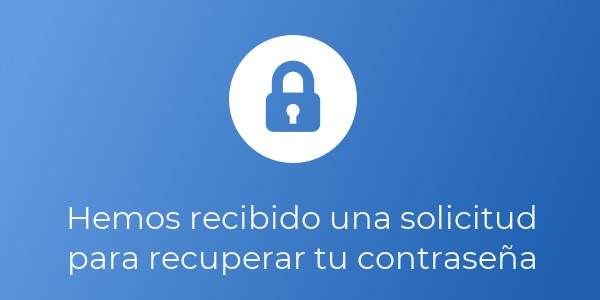
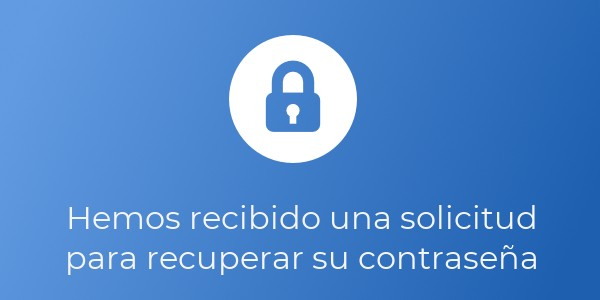
Add new role email notification templates
- Creating new image banner for new role notification.
- Adding necessary html, txt and subject files to template directory
to send new role notification emails.
- Changing the image for password reset banner to a more formal language.
- Adding new disclaimer for no response on the email base template and
txt versions of emails.
- Testing the new email template with the email_test view.

Changed region(s): [[0.09, 0.81, 0.9, 0.93]]

diff --git a/teg_asovac_src/templates/email_base_template.html b/teg_asovac_src/templates/email_base_template.html
@@ -31,7 +31,17 @@
                                     <tr>
                                         <td style="padding: 10px 0 10px 0; font-family: Avenir, sans-serif; font-size: 16px;">
                                             <!-- Email text goes here-->
-                                            <p>Atentamente.<br />Sistema ASOVAC</p>
+                                            <p>
+                                                Atentamente.<br />
+                                                Sistema ASOVAC
+                                            </p>
+                                        </td>
+                                    </tr>
+                                    <tr>
+                                        <td style="padding: 10px 0 0 0; font-family: Avenir, sans-serif; font-size: 12px;">
+                                            <p style="text-align: center;">
+                                                Este es un correo electrónico autogenerado por el sistema ASOVAC, por favor no responder a estos mensajes.
+                                            </p>
                                         </td>
                                     </tr>
                                 </table>

diff --git a/teg_asovac_src/templates/new_role_email.html b/teg_asovac_src/templates/new_role_email.html
@@ -1,0 +1,29 @@
+{% extends "email_base_template.html" %}
+{% load static %}
+
+{% block title %}
+Sistema ASOVAC: Asignación de Nuevo Rol
+{% endblock %}
+
+{% block banner %}
+<img src="{% static 'img/email_banner_new_role.jpg' %}" alt="Se ha recibido una solicitud para recuperar tu contraseña" style="display: block;border:0;" height="100%" width="600"/>
+{% endblock %}
+
+{% block content %}
+<tr>
+    <td style="padding: 10px 0 10px 0; font-family: Avenir, sans-serif; font-size: 16px;">
+        <!-- Email text goes here-->
+        <p style="text-align: justify;">
+            Mediante el presente mensaje se le notifica a usted que un Administrador del Sistema ASOVAC le ha asignado un nuevo rol en el mismo.
+        </p>
+    </td>
+</tr>
+<tr>
+    <td style="padding: 10px 0 10px 0; font-family: Avenir, sans-serif; font-size: 16px;">
+        <!-- Email text goes here-->
+        <p style="text-align: justify;">
+            Su nuevo rol asignado es: <strong>{{ new_role }}</strong>
+        </p>
+    </td>
+</tr>
+{% endblock %}

diff --git a/teg_asovac_src/templates/new_role_email_txt.html b/teg_asovac_src/templates/new_role_email_txt.html
@@ -1,0 +1,8 @@
+Mediante el presente mensaje se le notifica a usted que un Administrador del Sistema ASOVAC le ha asignado un nuevo rol en el mismo.
+
+Su nuevo rol asignado es: {{ new_role }}
+
+Atentamente
+Sistema ASOVAC
+
+Este es un correo electrónico autogenerado por el sistema ASOVAC, por favor no responder a estos mensajes.

diff --git a/teg_asovac_src/templates/password_reset_email_txt.html b/teg_asovac_src/templates/password_reset_email_txt.html
@@ -7,3 +7,5 @@ Para establecer una nueva contraseña, por favor haga click en el siguiente enla
 
 Atentamente
 Sistema ASOVAC
+
+Este es un correo electrónico autogenerado por el sistema ASOVAC, por favor no responder a estos mensajes.

diff --git a/teg_asovac_src/main_app/views.py b/teg_asovac_src/main_app/views.py
@@ -41,8 +41,9 @@ def email_test(request):
     context = {
         'nombre_vista' : 'Email-Test',
         'username' : 'Rabindranath Ferreira',
+        'new_role' : 'Coordinador de Área - Biología'
     }
-    return render(request, 'password_reset_email.html', context)
+    return render(request, 'new_role_email.html', context)
 
 def listado_trabajos(request):
     context = {
